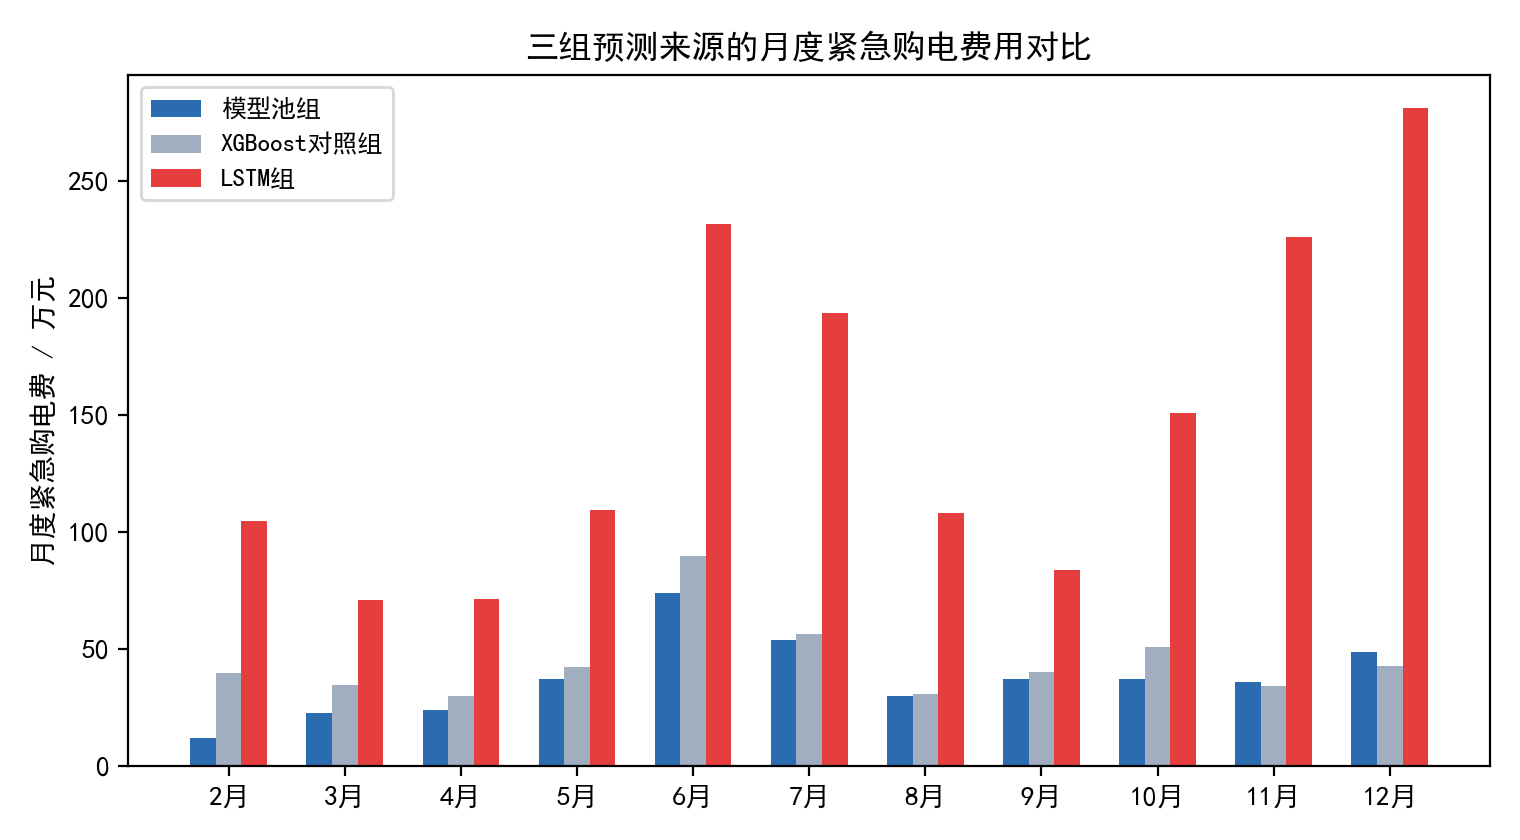
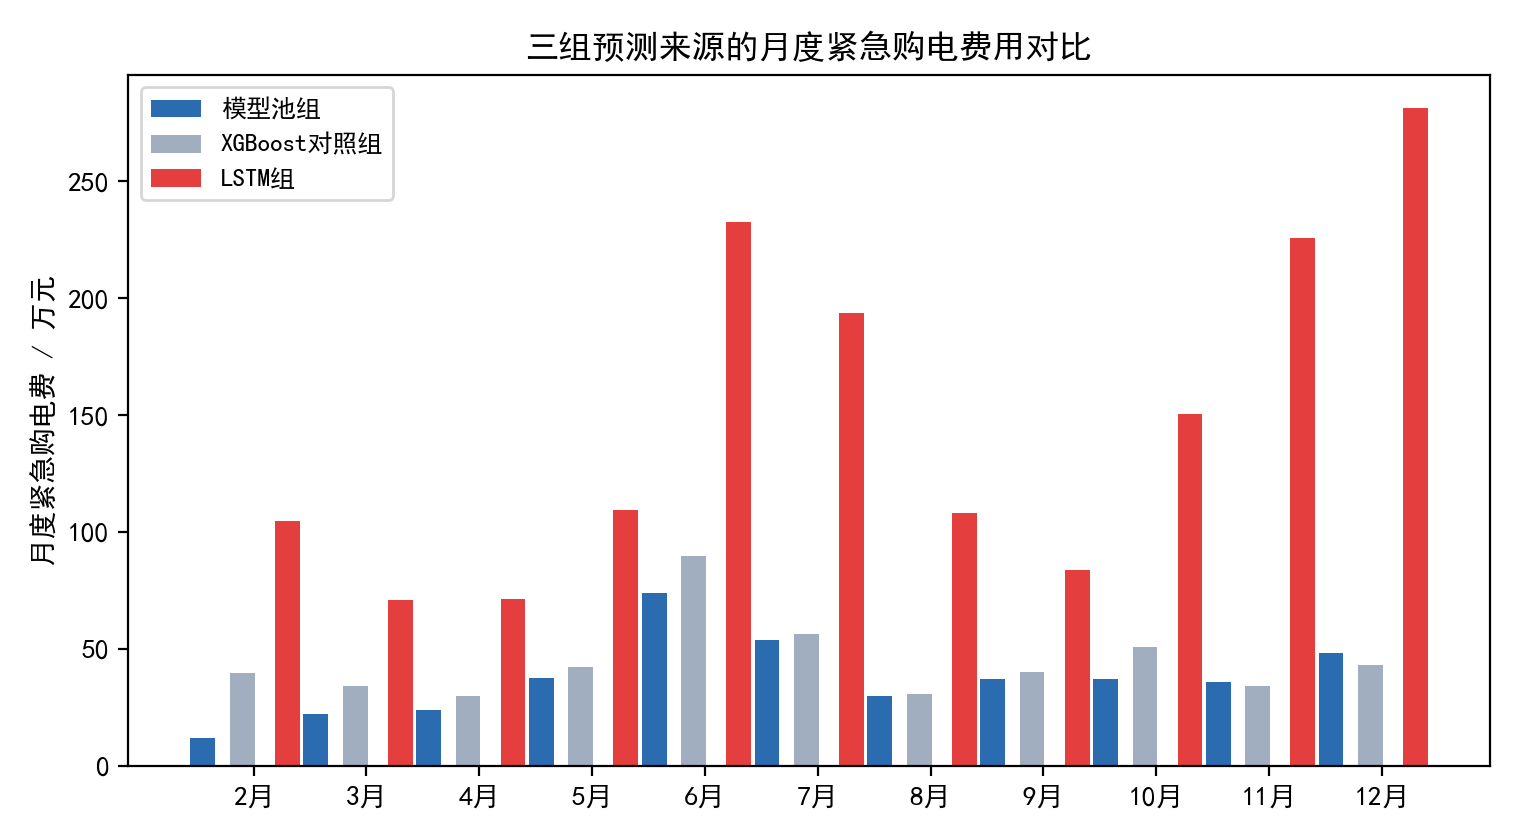
符号说明修改

Changed region(s): [[0.1237, 0.2476, 0.9276, 0.9595], [0.0309, 0.3405, 0.0618, 0.3714]]

diff --git a/C题/p2_part2/p2b_figs.py b/C题/p2_part2/p2b_figs.py
@@ -2,9 +2,7 @@
 """P2 论文图表: 组间对比 / 决策τ曲线 / 月度分解 -> outcome/figs/"""
 import pandas as pd, numpy as np
 import matplotlib
-matplotlib.use("Agg")
 import matplotlib.pyplot as plt
-
 plt.rcParams["font.sans-serif"] = ["SimHei", "Microsoft YaHei"]
 plt.rcParams["axes.unicode_minus"] = False
 
@@ -13,13 +11,12 @@ FIGS = r"..\outcome\figs"
 df = pd.read_excel(XL, sheet_name="组间对比")
 pf = float(df[df["组"] == "完美预见下界"]["total"].iloc[0])
 W = 1e4  # 万元
-
 # ---- 图A: 三组模型来源对比(柱状) ----
 groups = ["模型池组", "XGBoost对照组", "LSTM组"]
 vals = [float(df[df["组"] == g]["total"].iloc[0]) / W for g in groups]
 fig, ax = plt.subplots(figsize=(7.2, 4.2))
 bars = ax.bar(range(len(groups)), vals, width=0.5,
-              color=["#2b6cb0", "#718096", "#e53e3e"])
+               color=["#2b6cb0", "#718096", "#e53e3e"])
 for i, v in enumerate(vals):
     ax.text(i, v + 30, f"{v:,.0f}", ha="center", fontsize=10)
 ax.set_xticks(range(len(groups))); ax.set_xticklabels(groups)
@@ -27,7 +24,6 @@ ax.set_ylabel("全年总费用 / 万元")
 ax.set_title("三组预测来源的同管线全年总费用对比")
 ax.set_ylim(0, max(vals) * 1.15)
 fig.tight_layout(); fig.savefig(FIGS + r"\fig4_p2_groups.png", dpi=200); plt.close(fig)
-
 # ---- 图B: 决策分位 τ 曲线(备用, 当前论文未引用) ----
 qrows = df[df["组"].str.startswith("分位τ")].copy()
 qrows["tau"] = qrows["组"].str.extract(r"τ=([0-9.]+)").astype(float)
@@ -45,7 +41,6 @@ ax.set_ylabel("全年总费用 / 万元")
 ax.set_title("决策分位 τ 的全年总费用曲线(U 形)")
 ax.legend(fontsize=9)
 fig.tight_layout(); fig.savefig(FIGS + r"\fig5_p2_tau.png", dpi=200); plt.close(fig)
-
 # ---- 图C: 月度紧急费用(三组) ----
 months = list(range(2, 13))
 def monthly_emerg(sheet):
@@ -56,15 +51,14 @@ e_xgb = monthly_emerg("月度_XGBoost对照组")
 e_lstm = monthly_emerg("月度_LSTM组")
 x = np.arange(len(months))
 fig, ax = plt.subplots(figsize=(7.6, 4.2))
-ax.bar(x - 0.22, e_ens, width=0.22, label="模型池组", color="#2b6cb0")
-ax.bar(x,        e_xgb, width=0.22, label="XGBoost对照组", color="#a0aec0")
-ax.bar(x + 0.22, e_lstm, width=0.22, label="LSTM组", color="#e53e3e")
+ax.bar(x - 0.45, e_ens, width=0.22, label="模型池组", color="#2b6cb0")
+ax.bar(x - 0.10, e_xgb, width=0.22, label="XGBoost对照组", color="#a0aec0")
+ax.bar(x + 0.30, e_lstm, width=0.22, label="LSTM组", color="#e53e3e")
 ax.set_xticks(x); ax.set_xticklabels([f"{m}月" for m in months])
 ax.set_ylabel("月度紧急购电费 / 万元")
 ax.set_title("三组预测来源的月度紧急购电费用对比")
 ax.legend(fontsize=9)
 fig.tight_layout(); fig.savefig(FIGS + r"\fig6_p2_monthly.png", dpi=200); plt.close(fig)
-
 # ---- 论文用月度数字 ----
 mens = pd.read_excel(XL, sheet_name="月度_模型池组").set_index("月份")
 mxgb = pd.read_excel(XL, sheet_name="月度_XGBoost对照组").set_index("月份")
